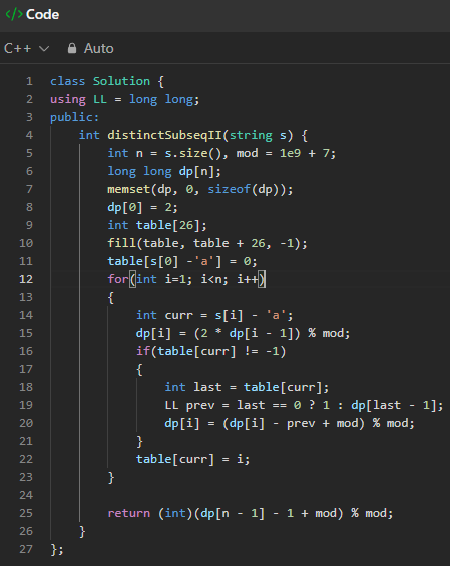
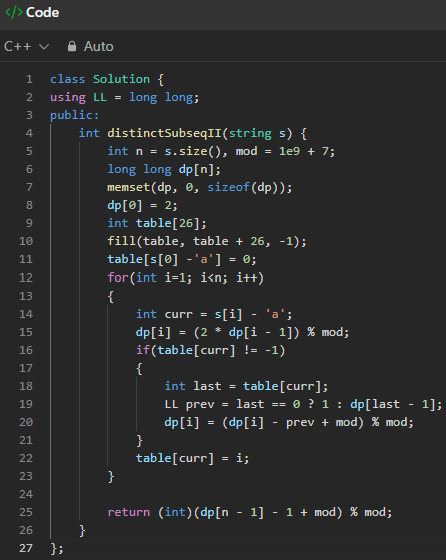
refactor: reduce distinctSubseqII (LC 940) DP space from O(n) to O(1)

diff --git a/940. Distinct Subsequences II/2026_09_07_rolling_DP_Solution.cpp b/940. Distinct Subsequences II/2026_09_07_rolling_DP_Solution.cpp
@@ -1,0 +1,27 @@
+class Solution {
+using LL = long long;
+public:
+    int distinctSubseqII(string s) {
+        int n = s.size(), mod = 1e9 + 7;
+        LL dp[2];
+        memset(dp, 0, sizeof(dp));
+        dp[0] = 2;
+        LL table[26];
+        fill(table, table + 26, -1);
+        table[s[0] -'a'] = 1;
+        for(int i=1; i<n; i++)
+        {
+            int curr = s[i] - 'a';
+            dp[1] = (2 * dp[0]) % mod;
+            if(table[curr] != -1)
+            {
+                LL last = table[curr];
+                dp[1] = (dp[1] - last + mod) % mod;
+            }
+            table[curr] = dp[0];
+            dp[0] = dp[1];
+        }
+
+        return (int)(dp[0] - 1 + mod) % mod;
+    }
+};
